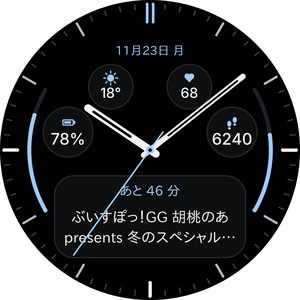
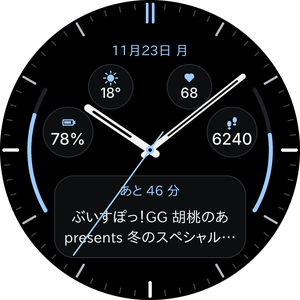
Increase date size to 20
Claude-Session: https://claude.ai/code/session_0153GkUJgMbFYegMctzmUYaE

Changed region(s): [[0.36, 0.15, 0.63, 0.21]]

diff --git a/tools/generate.py b/tools/generate.py
@@ -40,7 +40,7 @@ BATT_START, BATT_SPAN = 240, 60    # left side, filling upward from bottom-left
 STEP_END, STEP_SPAN = 120, 60      # right side, filling upward from bottom-right
 
 # Date line at the top
-DATE_Y, DATE_SIZE = 76, 18
+DATE_Y, DATE_SIZE = 76, 20
 
 # Four discs in the upper half. Battery / steps sit right next to their gauges.
 OUTER_R, INNER_R = 38, 34
